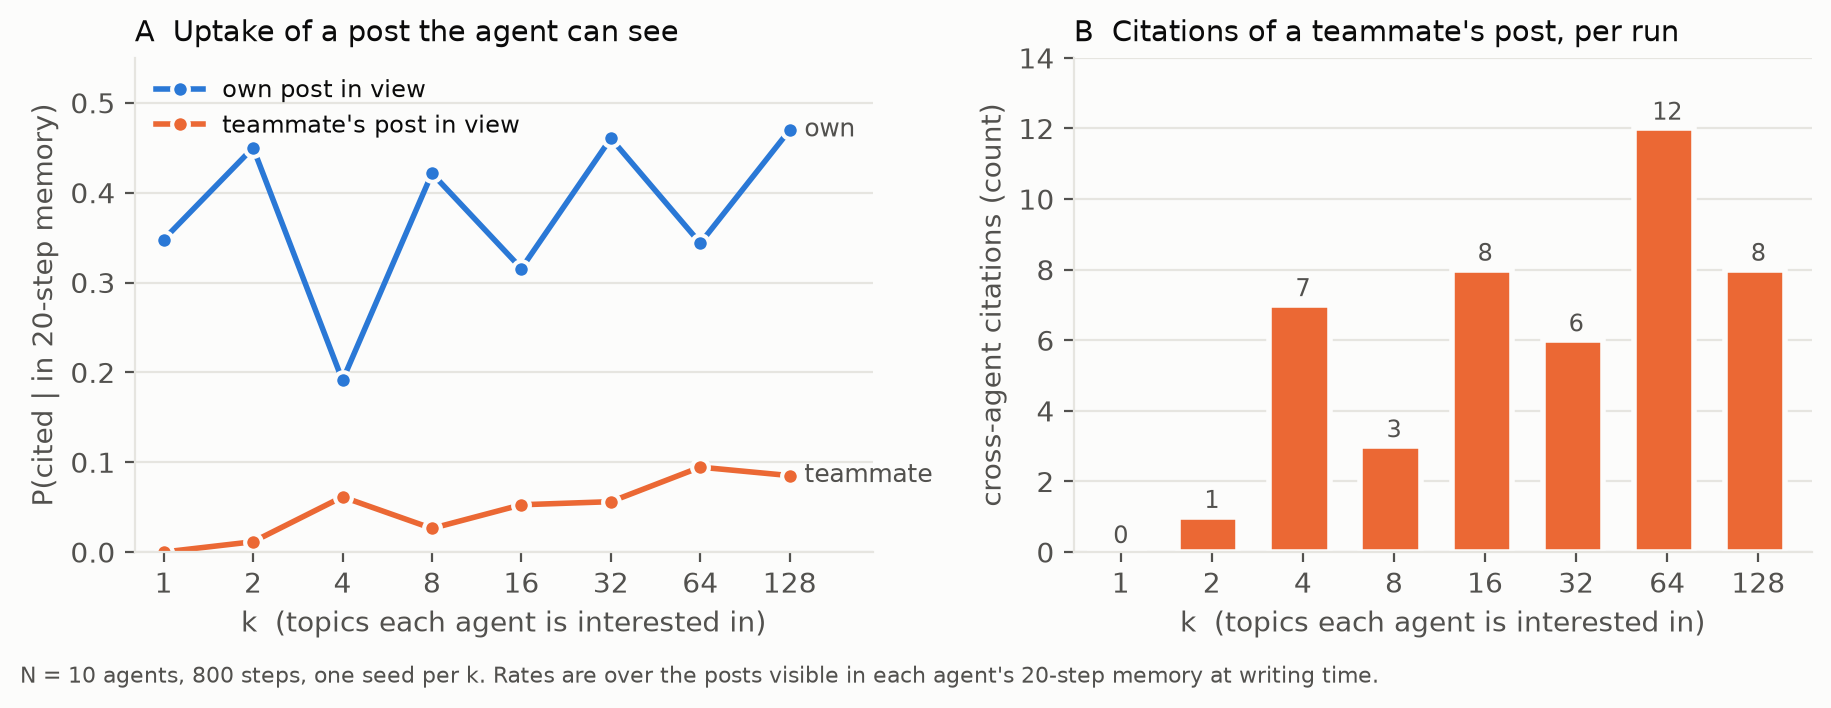
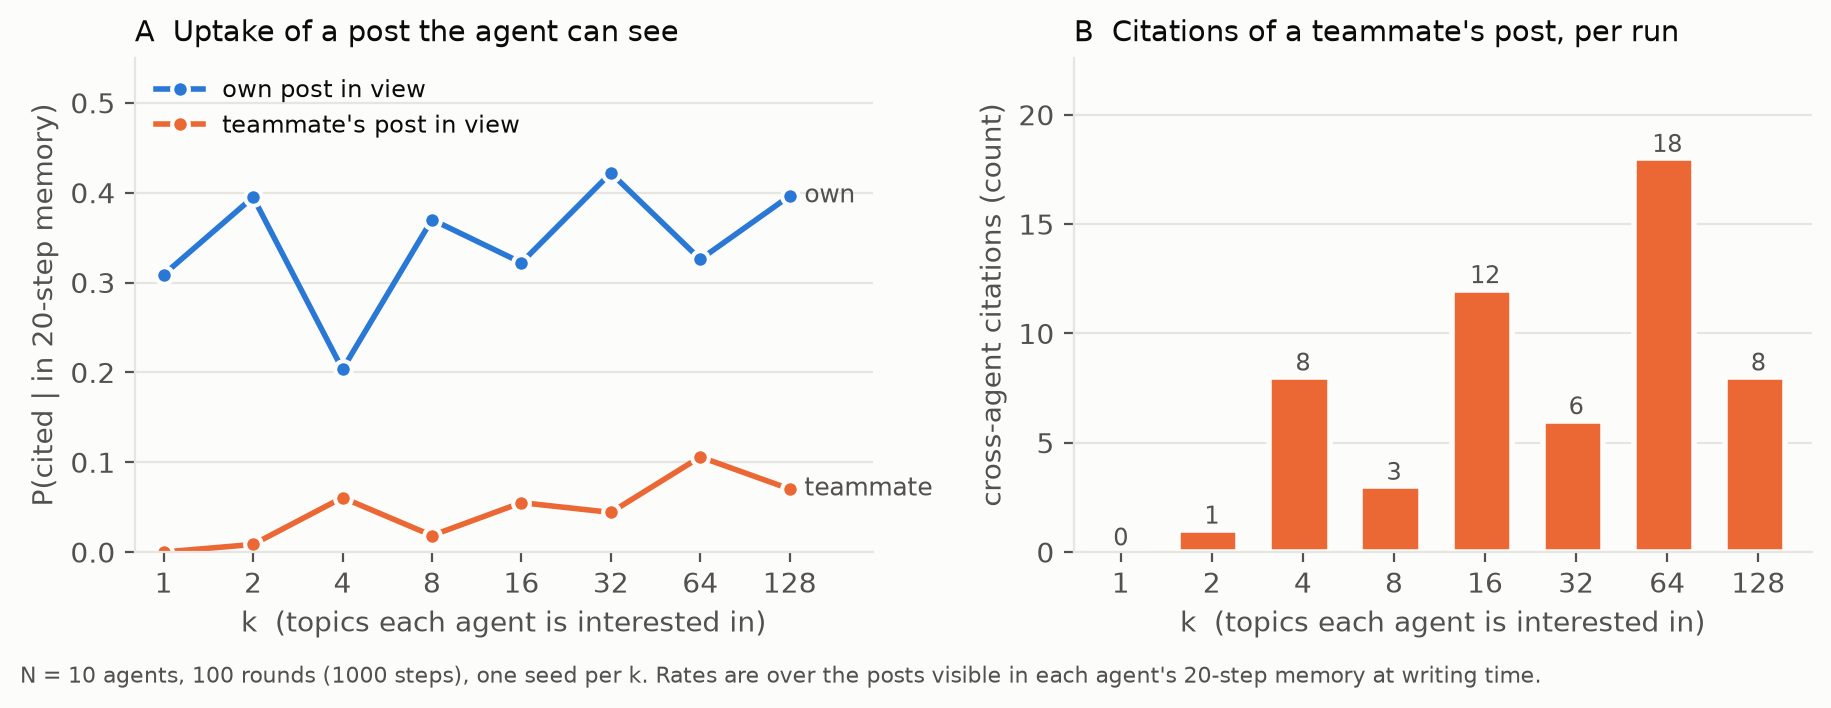
paper 2: k sweep extended to 100 rounds; figures redrawn from a committed script
All eight k runs resumed from 800 to 1000 steps (no duplicate post ids across
the break). plot_ksweep.py regenerates both figures from runs/p2_forum.

diff --git a/scripts/p2_forum/plot_ksweep.py b/scripts/p2_forum/plot_ksweep.py
@@ -1,0 +1,119 @@
+"""Paper 2 k-sweep figures, from runs/p2_forum/.
+
+Run after scripts/p2_forum/ksweep_summary.py (which writes ksweep_summary.json).
+Writes paper/p2_forum/ksweep.png (uptake) and ksweep_production.png (output).
+
+Palette: the dataviz reference instance. Own/teammate use categorical slots 1/2
+(validated, CVD dE 24.7). k is ordinal, but an 8-step blue ramp fails the
+adjacent-lightness check, so the cumulative panel shows k=2..64 as grey context
+and highlights only the two endpoints (validated 2-step ordinal pair).
+
+Run: uv run python scripts/p2_forum/plot_ksweep.py
+"""
+import collections
+import json
+
+import matplotlib
+
+matplotlib.use("Agg")
+import matplotlib.pyplot as plt  # noqa: E402
+
+KS = [1, 2, 4, 8, 16, 32, 64, 128]
+SURF, INK, INK2, GRID, CTX = "#fcfcfb", "#0b0b0b", "#52514e", "#e6e5e0", "#c9c8c2"
+BLUE, ORANGE, LIGHT, DARK = "#2a78d6", "#eb6834", "#86b6ef", "#0d366b"
+plt.rcParams.update({"font.size": 10, "axes.edgecolor": GRID, "axes.labelcolor": INK2,
+                     "xtick.color": INK2, "ytick.color": INK2, "text.color": INK})
+
+
+def style(ax):
+    ax.set_facecolor(SURF)
+    ax.grid(axis="y", color=GRID, lw=0.8)
+    ax.set_axisbelow(True)
+    for s in ("top", "right"):
+        ax.spines[s].set_visible(False)
+
+
+rows = json.load(open("runs/p2_forum/ksweep_summary.json"))
+steps = rows[0]["steps"]
+rounds = steps // 10
+foot = f"N = 10 agents, {rounds} rounds ({steps} steps), one seed per k."
+
+# ---- figure 1: uptake -------------------------------------------------------
+fig, (a, b) = plt.subplots(1, 2, figsize=(9.2, 3.4), facecolor=SURF)
+for ax in (a, b):
+    style(ax)
+    ax.set_xscale("log", base=2)
+    ax.set_xticks(KS)
+    ax.set_xticklabels(KS)
+    ax.set_xlabel("k  (topics each agent is interested in)")
+po = [r["p_own"] for r in rows]
+pm = [r["p_mate"] for r in rows]
+a.plot(KS, po, color=BLUE, lw=2, marker="o", ms=6, mec=SURF, mew=1.5, label="own post in view")
+a.plot(KS, pm, color=ORANGE, lw=2, marker="o", ms=6, mec=SURF, mew=1.5, label="teammate's post in view")
+a.set_ylim(0, 0.55)
+a.set_ylabel("P(cited | in 20-step memory)")
+a.set_title("A  Uptake of a post the agent can see", loc="left", fontsize=10.5)
+a.text(128 * 1.12, po[-1], "own", color=INK2, va="center", fontsize=9)
+a.text(128 * 1.12, pm[-1], "teammate", color=INK2, va="center", fontsize=9)
+a.legend(frameon=False, loc="upper left", fontsize=8.5)
+a.set_xlim(0.8, 128 * 1.9)
+cross = [r["cross"] for r in rows]
+b.bar(KS, cross, width=[x * 0.45 for x in KS], color=ORANGE, edgecolor=SURF, linewidth=2)
+for x, y in zip(KS, cross):
+    b.text(x, y + 0.3, str(y), ha="center", fontsize=8.5, color=INK2)
+b.set_ylim(0, max(cross) * 1.2 + 1)
+b.set_ylabel("cross-agent citations (count)")
+b.set_title("B  Citations of a teammate's post, per run", loc="left", fontsize=10.5)
+b.set_xlim(0.7, 128 * 1.5)
+fig.text(0.01, -0.02, foot + " Rates are over the posts visible in each agent's "
+         "20-step memory at writing time.", fontsize=8, color=INK2)
+fig.tight_layout()
+fig.savefig("paper/p2_forum/ksweep.png", dpi=200, bbox_inches="tight", facecolor=SURF)
+
+# ---- figure 2: production ---------------------------------------------------
+tot, per_agent, cum = {}, {}, {}
+for k in KS:
+    ev = [json.loads(line) for line in open(f"runs/p2_forum/forum-k{k}/events.jsonl")]
+    posts = [e for e in ev if e["action"] == "generate" and "node_id" in e["result"]]
+    tot[k] = len(posts)
+    c = collections.Counter(e["agent_id"] for e in posts)
+    per_agent[k] = [c.get(f"a{i}", 0) for i in range(10)]
+    post_rounds = [e["step"] // 10 + 1 for e in posts]
+    cum[k] = [sum(1 for r in post_rounds if r <= R) for R in range(1, rounds + 1)]
+fig, (a, b) = plt.subplots(1, 2, figsize=(9.6, 3.5), facecolor=SURF)
+for ax in (a, b):
+    style(ax)
+x = range(len(KS))
+top = max(tot.values())
+a.bar(x, [tot[k] for k in KS], width=0.62, color=BLUE, edgecolor=SURF, linewidth=2, zorder=2)
+for i, k in enumerate(KS):
+    a.text(i, tot[k] + top * 0.02, str(tot[k]), ha="center", fontsize=8.5, color=INK2)
+    a.text(i, top * 0.04, f"{min(per_agent[k])}–{max(per_agent[k])}", ha="center",
+           fontsize=7.5, color=SURF)
+a.set_xticks(list(x))
+a.set_xticklabels(KS)
+a.set_xlabel("k  (topics each agent is interested in)")
+a.set_ylabel("ideas posted (whole team)")
+a.set_ylim(0, top * 1.18)
+a.text(-0.55, top * 1.1, "white numbers = fewest–most ideas by a single agent",
+       fontsize=7.5, color=INK2)
+a.set_title("A  Ideas produced per run", loc="left", fontsize=10.5)
+R = range(1, rounds + 1)
+for k in KS:
+    if k not in (1, 128):
+        b.plot(R, cum[k], color=CTX, lw=1.2, zorder=1)
+b.plot(R, cum[1], color=LIGHT, lw=2, zorder=3, label="k = 1")
+b.plot(R, cum[128], color=DARK, lw=2, zorder=3, label="k = 128")
+b.plot([], [], color=CTX, lw=1.2, label="k = 2 … 64")
+b.text(rounds + 1.5, cum[1][-1] - 1.5, "k=1", fontsize=8.5, color=INK2, va="center")
+b.text(rounds + 1.5, cum[128][-1] + 1.5, "k=128", fontsize=8.5, color=INK2, va="center")
+b.set_xlim(0, rounds * 1.15)
+b.set_ylim(0, top * 1.1)
+b.set_xlabel("round  (each of the 10 agents acts once)")
+b.set_ylabel("ideas posted so far")
+b.set_title("B  Cumulative production over the run", loc="left", fontsize=10.5)
+b.legend(frameon=False, loc="upper left", fontsize=8.5)
+fig.text(0.01, -0.02, foot, fontsize=8, color=INK2)
+fig.tight_layout()
+fig.savefig("paper/p2_forum/ksweep_production.png", dpi=200, bbox_inches="tight", facecolor=SURF)
+print("wrote paper/p2_forum/ksweep.png and ksweep_production.png")
